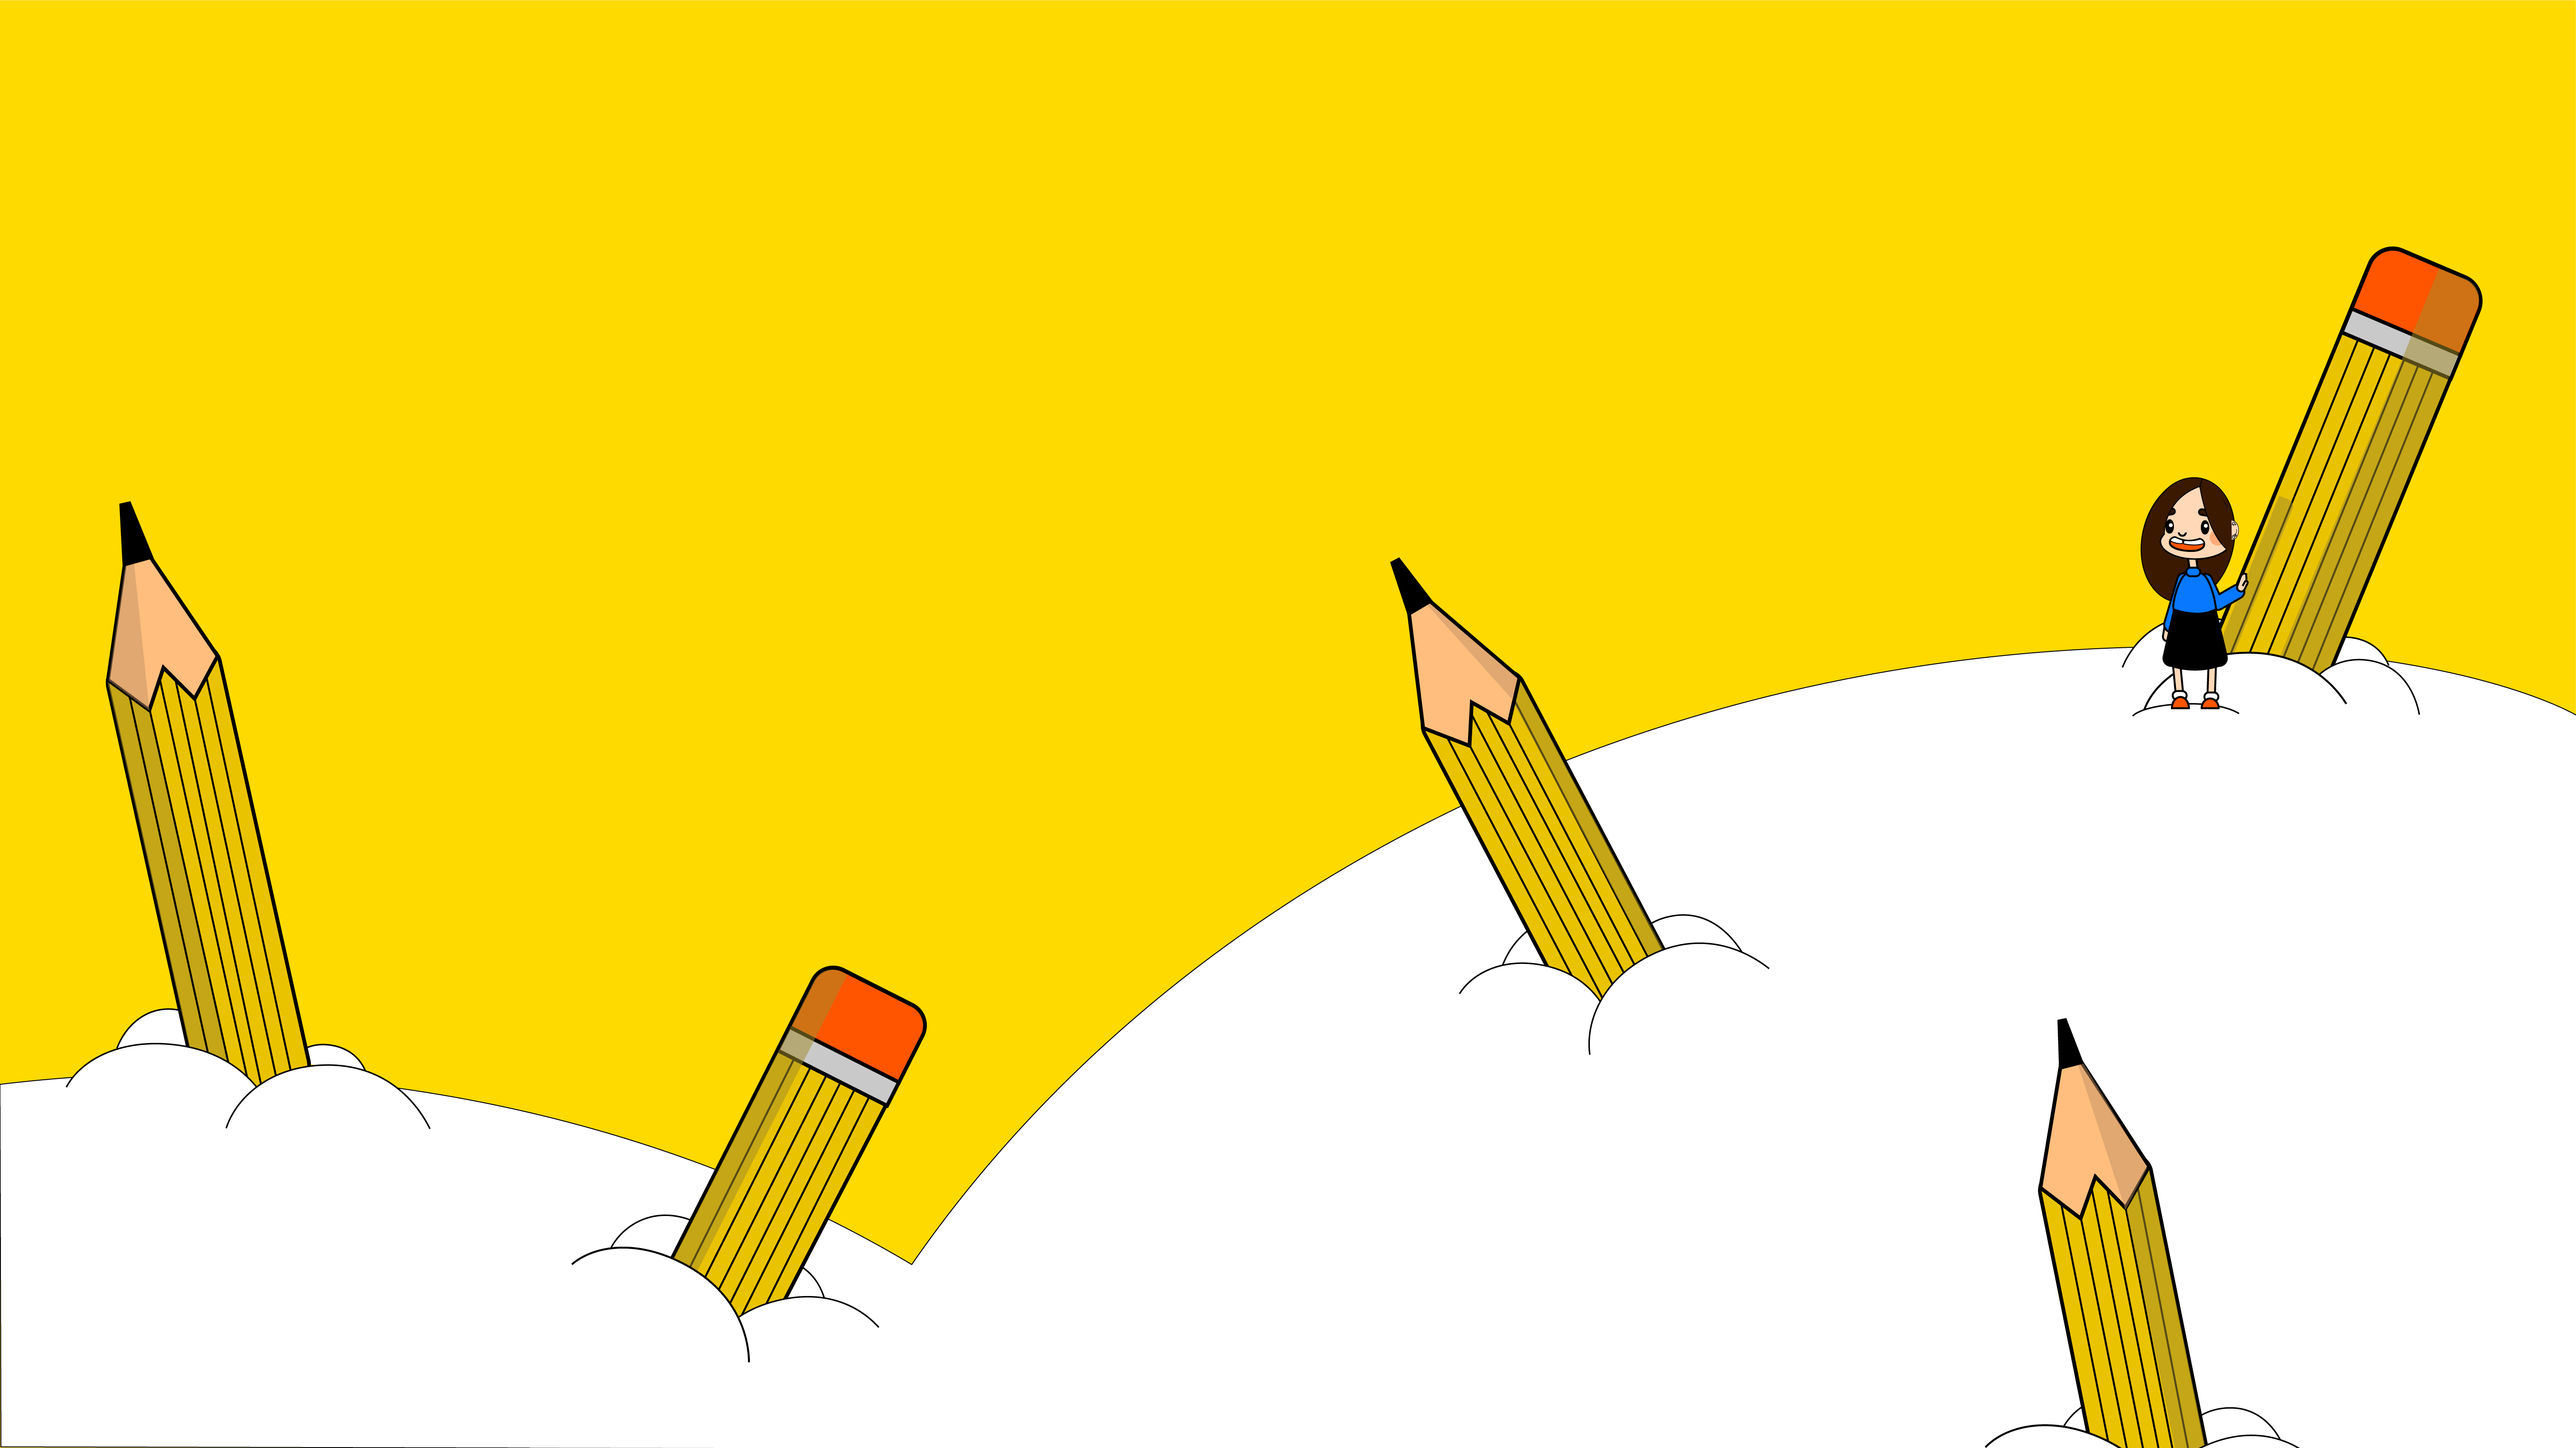
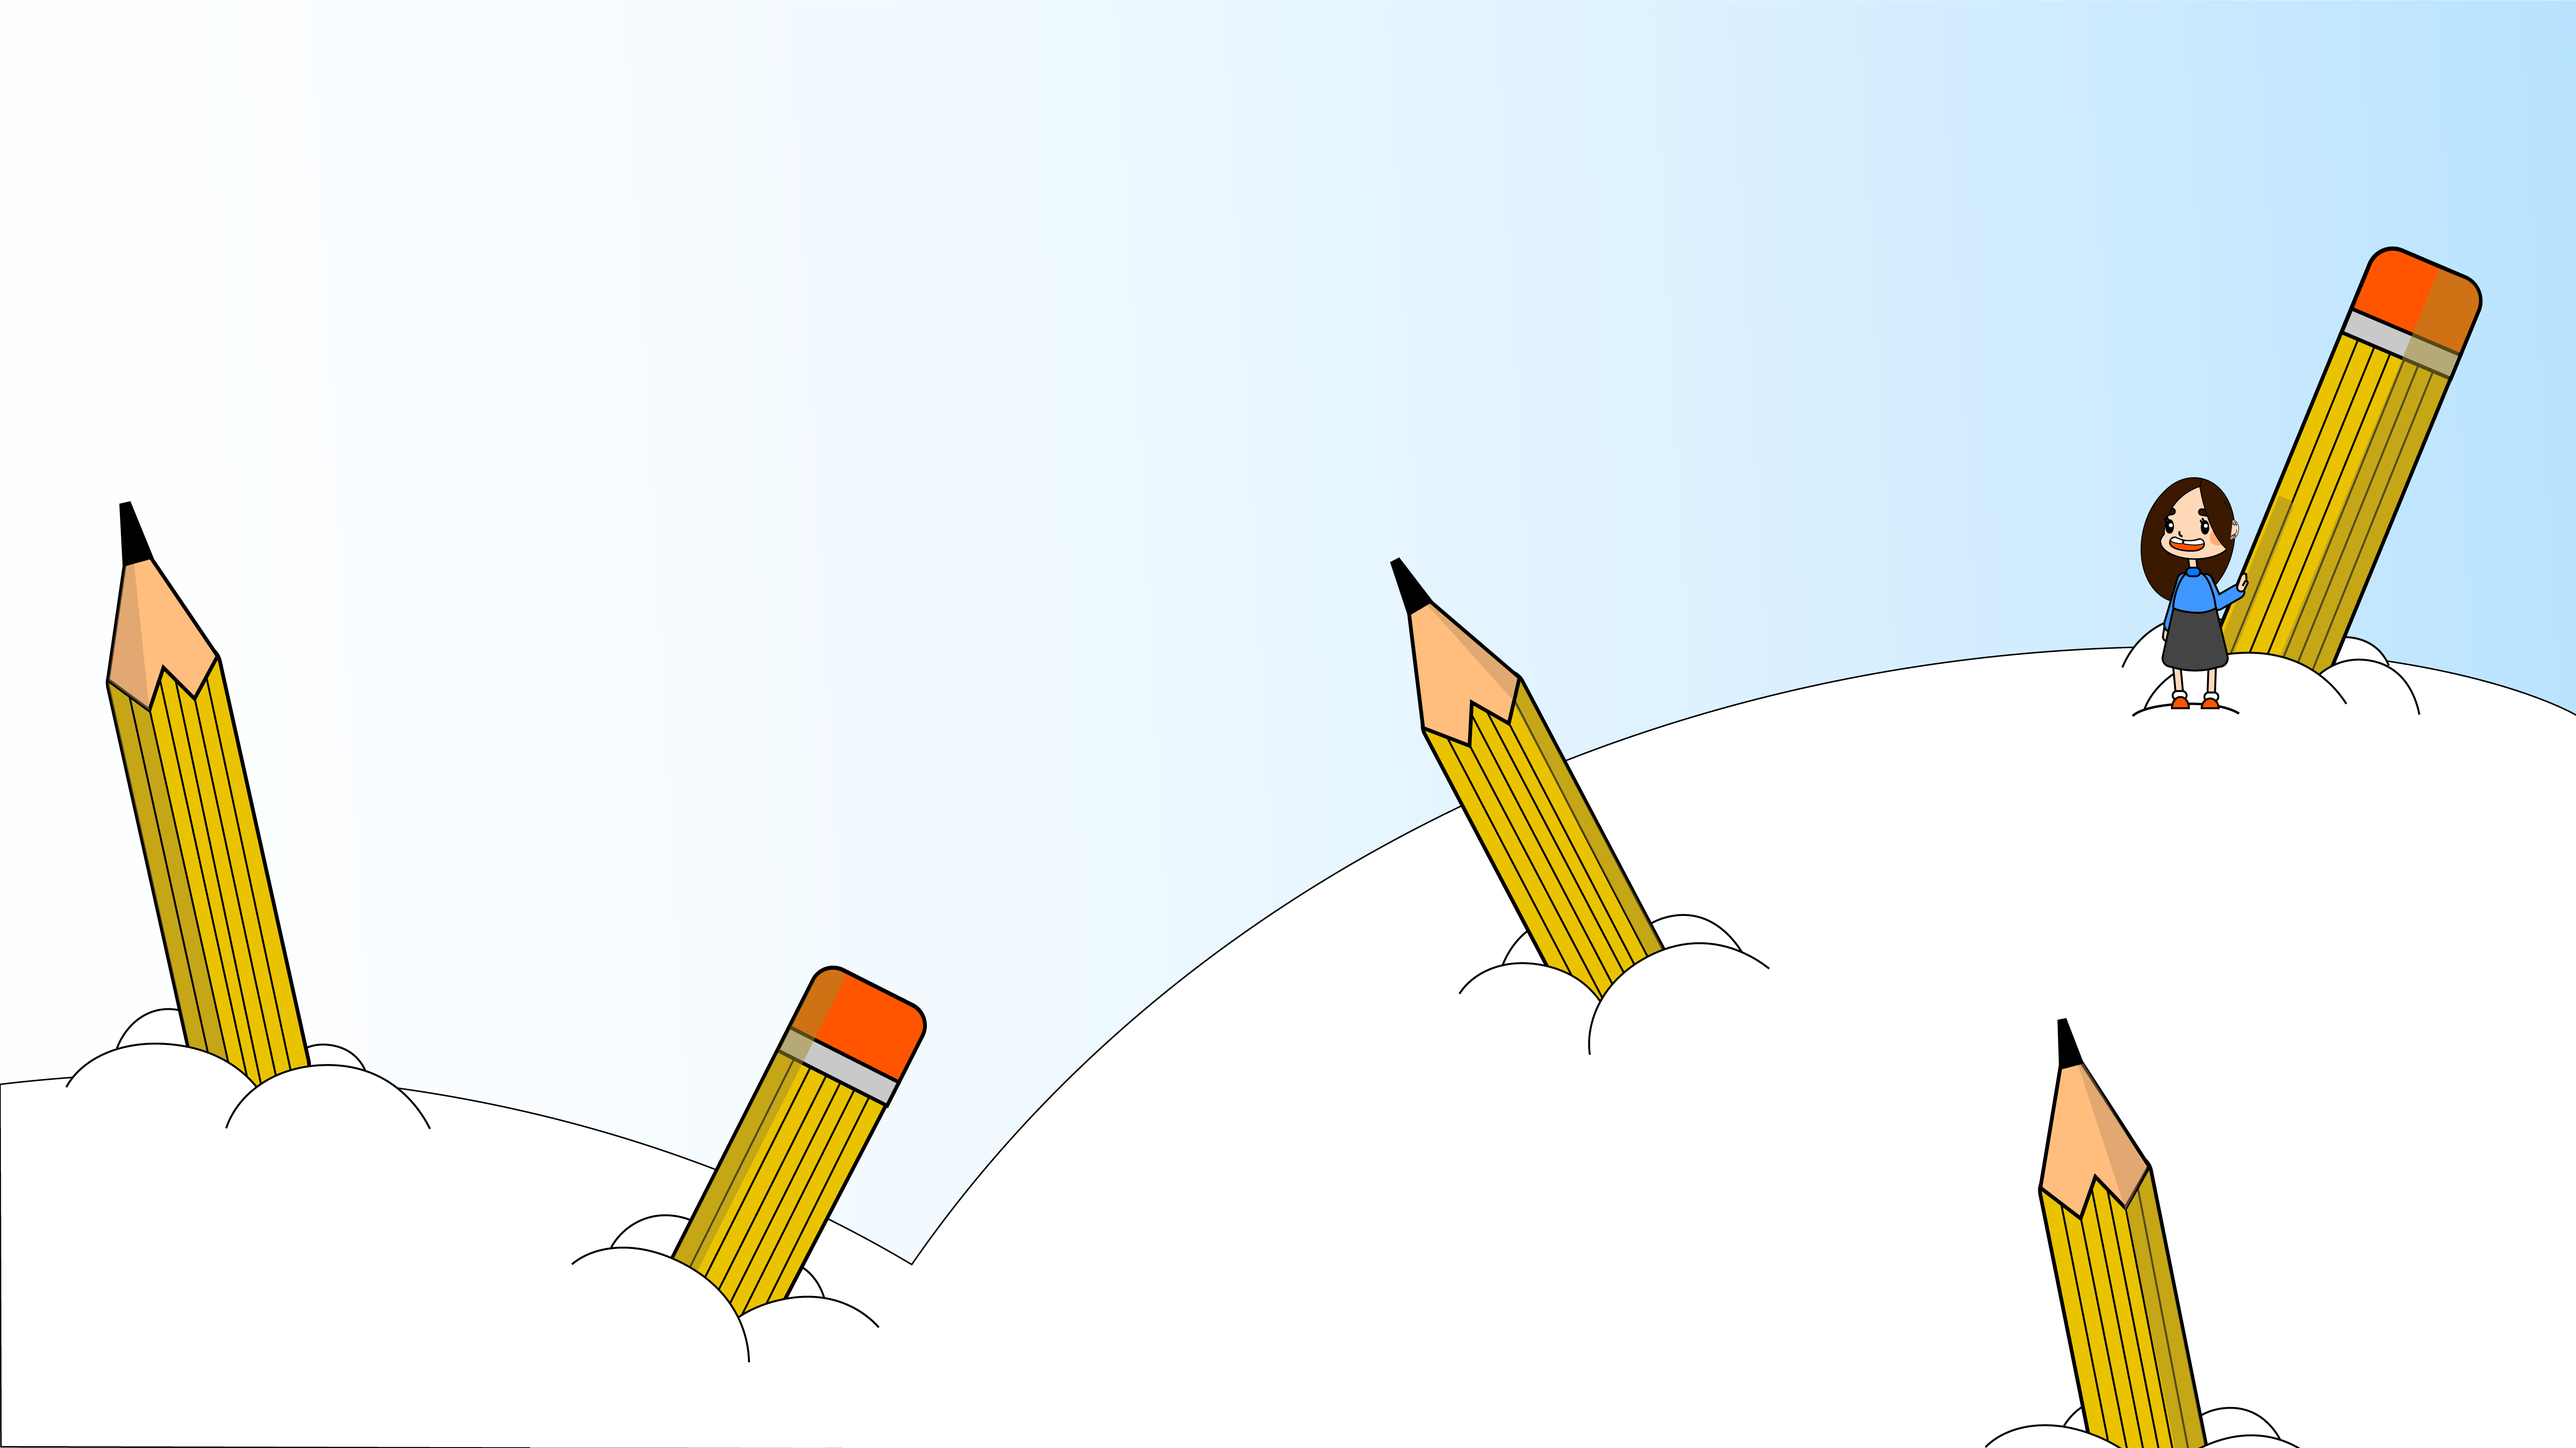
changes made to index.html
-changed some background colors
-border radius added to bottom border

diff --git a/Project1/index.html b/Project1/index.html
@@ -11,18 +11,17 @@
                 }
                 body{   
                     font-family: 'Open Sans', sans-serif;
-                    background: url('images/index-background-01.png');
+                    background: url("images/index-background-01.png");
                     background-size: cover;
-                    background-color: #FF2A00;
+                    background-color: #63A6C4;
                     background-repeat: no-repeat;
                     max-width: 100%;
                     height:auto;
                 }
-                /*hellllllloooo BoYi!!!*/
-                 /*hellllllloooo BoYi!!!*/
                 .main{
                     width: 12.5%;
                     float: left;
+                    
                 }
                 .logo1{
                     margin-top: 12px;
@@ -121,15 +120,21 @@
                 */
                 .links{
                     display: inline;
+                    
+                }
+                h1{ 
+                    margin-bottom: 0px;
                 }
                 .h1{
                     width: 450px;
                     margin-top: 200px;
                     margin-left: 238px;
                     font-size: 300%;
-                    color:black;
+                    color:#80D7FF;
                     padding-bottom: 0px;
-                    border-bottom: 10px solid black;
+                    border-bottom: 10px solid #63A6C4;
+                    border-bottom-left-radius: 25px;
+                    border-bottom-right-radius: 25px;
                 }
                 p{
                     margin-top: 30px;
@@ -138,25 +143,22 @@
                     margin-left: 0px;
                     margin-right: 523px;
                     font-size: 115%;
-                    color:black;
+                    color:#2D4B59;
                     line-height: 29px;
                     text-align: center;
                 }
+/*
                 .items{
-                    margin-top: 200px;}
-                .links{
-                    margin-top: 400px;
+                    margin-top: 200px;
                 }
-                .main{
-                    margin-top: 300px;
-                }
+*/
                 
             </style>
     </head>
     <body>
             <div class="main">
                 <a href="https://amazon.com">
-                <img class="logo1" src="images/logos%20(wong)-04.png"  alt="logo" style="max-width:100% ; height:auto">
+                <img class="logo1" src="images/logos%20(wong)-01.png"  alt="logo" style="max-width:100% ; height:auto">
                 </a>
             </div>
             <div class="links">
